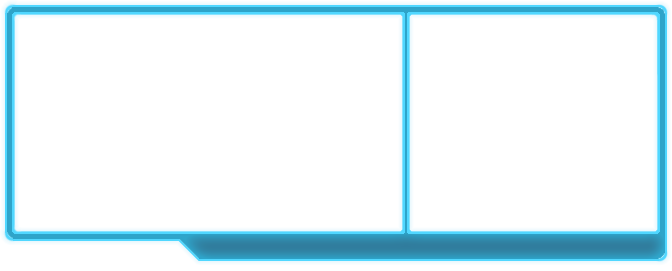
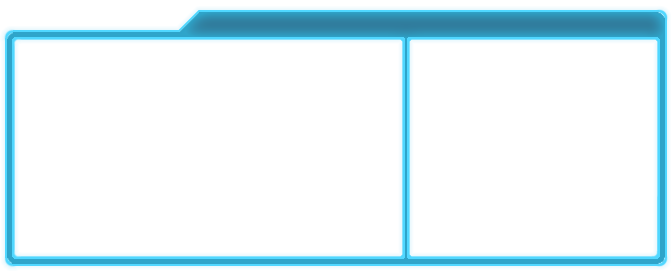
Zasmi: Added greebles to augments section.

Changed region(s): [[0.0, 0.8266, 1.0, 1.0], [0.0, 0.0, 1.0, 0.1476]]

diff --git a/src/main/webapp/styles/gearPlanner.css b/src/main/webapp/styles/gearPlanner.css
@@ -64,7 +64,8 @@ body.faction-mode-pub .faction-imp
     box-shadow:0 0 30px black inset;
 }
 #charBodyDiv,
-#calcStatsDiv
+#calcStatsDiv,
+#augPicker
 {
     display:inline-block; /*TODO:HACK: quick fix for centering until we decide on a page layout*/
 }
@@ -459,7 +460,7 @@ body.faction-mode-pub .faction-imp
     width:650px;
     background-image:url('../images/frames/frame_calcstats.png');
     background-repeat:no-repeat;
-    padding:11px 11px 41px;
+    padding:41px 11px 11px;
 }
 #calcStatsTable
 {
@@ -507,7 +508,11 @@ body.faction-mode-pub .faction-imp
 }
 #augPicker
 {
-    height:500px;
+    /*height:500px;*/
+    width:392px;
+    padding:10px;
+    background-image:url('../images/frames/frame_augments.png');
+    background-repeat:no-repeat;
 }
 #augPicker button
 {
@@ -518,11 +523,13 @@ body.faction-mode-pub .faction-imp
     width:100%;
     height:150px;
     /*min-height:300px;*/
-    padding:6px;
+    padding:3px;
+    box-sizing:border-box;
 }
 #inputAugType
 {
     margin-right:5px;
+    width:90px;
 }
 #currentAugDisplay,
 #currentAugMask
@@ -544,10 +551,16 @@ body.faction-mode-pub .faction-imp
 {
     width:160px;
     font-size:0.9em;
+    vertical-align:middle;
 }
 #currentAugStats
 {
     width:160px;
+}
+#currentAugButtons
+{
+    text-align:center;
+    margin-top:20px;
 }
 .augment-copy-mode .augment-slot-img.slot-empty,
 .augment-copy-mode .augment-slot-img
@@ -625,8 +638,7 @@ body.faction-mode-pub .faction-imp
 #helpDiv
 {
     width:507px;
-    height:200px;
-    margin:-20px auto;
+    min-height:60px;
     overflow-y:auto;
     overflow-x:hidden;
     padding:0 0 40px 30px;
